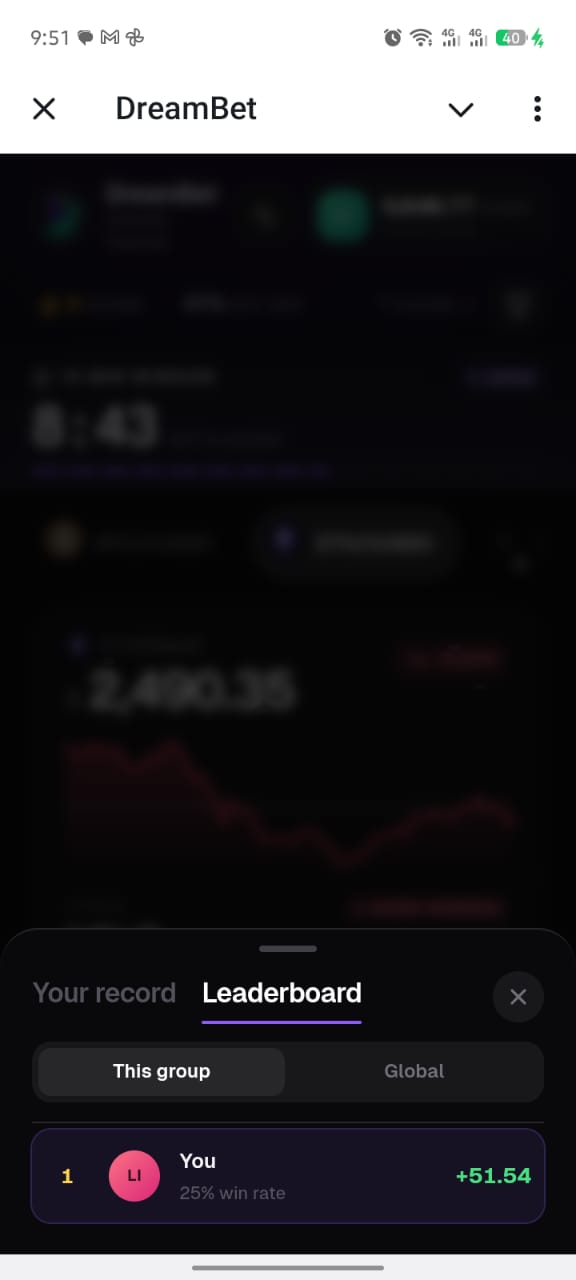
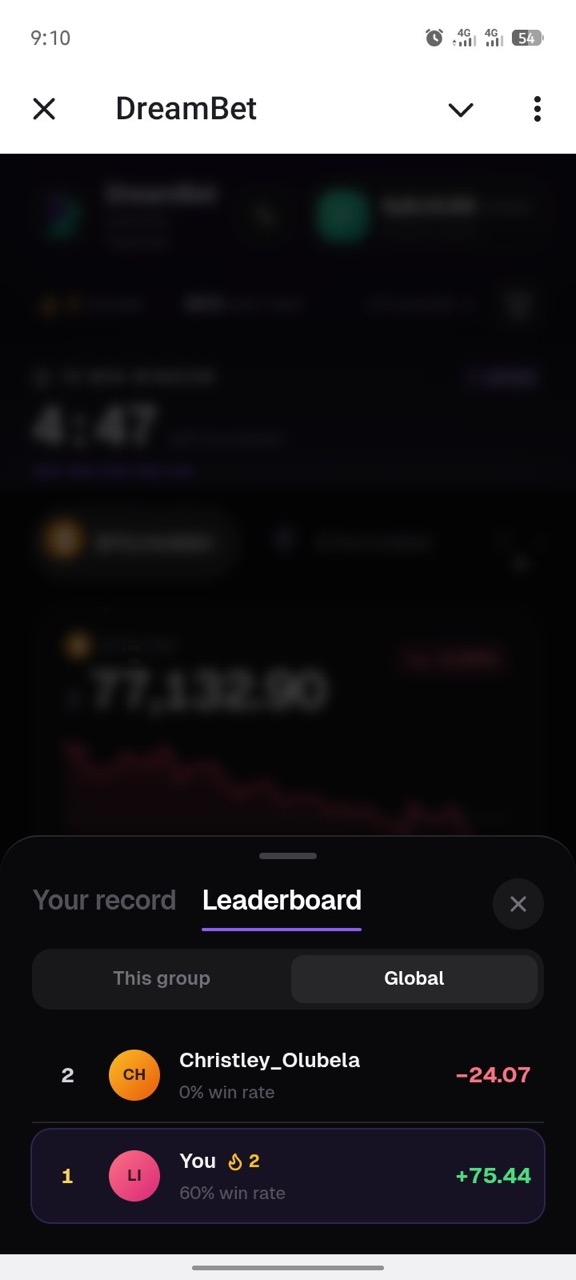
Show a real bet in the README, and stop promising two taps
A GIF of the demo bet from tap to win, the transaction behind it and the
contracts it touches, so "every figure is real" can be checked. Steps a
judge can follow to try it, starting with the faucet. A bet is a side, an
amount and two wallet signatures, which is what the video shows, so the
tagline no longer says two taps.

The order gas was stale: every order from the demo wallet burnt 828,682,
not 595,412. The leaderboard shot now has a second player on it.

Claude-Session: https://claude.ai/code/session_014JByRGn8phgsf8amVyDTL9

diff --git a/src/lib/dreamdex/config.ts b/src/lib/dreamdex/config.ts
@@ -105,8 +105,8 @@ export const PRICE_SERIES_CADENCE_SECONDS = 60;
  * Gas ceiling for every write this app sends — the collateral approval, the
  * order, and the faucet claim.
  *
- * Measured, not guessed: a DreamBet order burns 595,412 gas on these pools and
- * the heaviest order from any caller burnt 3.65M. Two million is 3.4x our own
+ * Measured, not guessed: a DreamBet order burns 828,682 gas on these pools and
+ * the heaviest order from any caller burnt 3.65M. Two million is 2.4x our own
  * and what the faucet has always used.
  */
 export const WRITE_GAS = 2_000_000n;

diff --git a/README.md b/README.md
@@ -3,7 +3,7 @@
 </p>
 
 <p align="center">
-  <b>Bet on where BTC or ETH closes in the next few minutes — from inside a Telegram group, in two taps, without ever meeting a wallet.</b>
+  <b>Bet on where BTC or ETH closes in the next fifteen minutes — from inside a Telegram group, with no install, no seed phrase and no gas to buy.</b>
 </p>
 
 <p align="center">
@@ -12,6 +12,12 @@
 
 <p align="center">
   <b>Open it in Telegram: <a href="https://t.me/thedreambetbot/dreambet?startapp">t.me/thedreambetbot/dreambet?startapp</a></b>
+</p>
+
+<p align="center">
+  <img src="docs/demo.gif" width="300" alt="Placing a BTC UP bet, signing it, sharing it, and winning when the window closes">
+  <br>
+  <sub>A real bet, start to finish: <a href="https://shannon-explorer.somnia.network/tx/0x00f9b5de0b5ba5b0fc34ee55a4d2de371c507c4a51763dc6686bfa7f4c8e110b">this transaction</a> on Shannon. The wallet prompts are sped up and the wait for the window to close is cut.</sub>
 </p>
 
 ---
@@ -28,19 +34,19 @@ The on-chain venues have the mirror-image problem. dreamDEX runs real event cont
 
 DreamBet is a Telegram Mini App, so it opens inside the conversation. No install, no download, no context switch.
 
-**Your Telegram account is the login.** An embedded wallet is created behind it on first open. There is no seed phrase step, because there is no seed phrase to show — and a Telegram webview has no injected provider anyway, so an external wallet was never an option here.
+**Your Telegram account is the login.** An embedded wallet is created behind it the first time you open the app, so there is no seed phrase to write down. An external wallet was never an option anyway: a Telegram webview has no injected provider.
 
-**Gas is never the player's problem.** Every public STT faucet wants a browser wallet to connect and a Mini App has none, so the app sponsors it: before every collateral claim and every bet, one key tops the player's wallet back up if it is running low. The word "gas" appears nowhere in the interface.
+**Gas is never the player's problem.** Public STT faucets all want a browser wallet, and a Mini App doesn't have one. So the app pays instead: before every tUSDC claim and every bet, a sponsor key tops the player's wallet up if it is running low. DreamBet's own screens never mention gas.
 
-**Betting is two taps.** Pick a side, pick an amount. The odds come off the live order book, the window comes off the contract, and the result comes off the chain.
+**A bet is a side and an amount.** Tap UP or DOWN, pick a stake, confirm, then sign the two transactions the wallet asks for: the approval and the order. The odds come from the live order book, the window from the contract, and the result from the chain.
 
-**And the bet leaves as an invitation.** A placed bet becomes a share card aimed back at the group it came from, naming the *opposite* side — because yours is taken. Everyone bets into the same public dreamDEX window, where the liquidity is; the private part is the scoreboard between you and the people in that chat.
+**And the bet leaves as an invitation.** A placed bet becomes a share card sent back to the group it came from, naming the *opposite* side, because yours is taken. Everyone bets into the same public dreamDEX window, where the liquidity is. What belongs to the group is the scoreboard between you and the people in that chat.
 
 ---
 
 ## The product
 
-*Every figure in these screens is real: live 15-minute windows, quotes walked off the resting book, and results the chain actually resolved.*
+*Every figure in these screens is real: live dreamDEX windows, quotes walked off the resting book, and results the chain actually resolved.*
 
 <table align="center">
 <tr>
@@ -50,9 +56,9 @@ DreamBet is a Telegram Mini App, so it opens inside the conversation. No install
 </tr>
 </table>
 
-**The board.** Three assets as pills, each showing whether it has anything behind it right now — a dark one dims and refuses the tap rather than looking fine until you press it. A live price chart drawn from oracle prints, the line your bet settles against drawn across it, and a countdown that names the window it is counting: *15 min window*, *1 hour window*.
+**The board.** Three asset pills. One with no live market behind it is dimmed and can't be tapped, instead of looking fine until you press it. Below them, a price chart built from oracle prints with the line your bet settles against drawn across it, and a countdown that says which window it is counting: *15 min window*, *1 hour window*.
 
-**The ticket.** Tap UP or DOWN and a sheet asks the only remaining question: how much. Quick-stake pills, and a payout quoted by walking the pool's actual resting asks — so the multiplier on screen is the one your order can get, slippage included, not the top-of-book number it would miss. Once it fills, the bet sits under the chart with its strike, the live price and what it pays, marked *winning* or *losing* as the price crosses the line.
+**The ticket.** Tap UP or DOWN and a sheet asks how much. The payout is quoted by walking the pool's resting asks, so the multiplier on screen is what your order will actually get, slippage included — not the top-of-book price it would miss. Once it fills, the bet sits under the chart with its strike, the live price and what it pays, marked *winning* or *losing* as the price crosses the line.
 
 <table align="center">
 <tr>
@@ -61,11 +67,11 @@ DreamBet is a Telegram Mini App, so it opens inside the conversation. No install
 </tr>
 </table>
 
-**Market Pulse.** The read no exchange offers, because no exchange is betting on a fifteen-minute window: **how far the line is, measured in how far this asset actually travels in the time left.**
+**Market Pulse** shows **how far the price is from the line, measured in how far this asset normally moves in the time left.** Exchanges don't show this, because nobody on an exchange is betting on a fifteen-minute window.
 
 > *"BTC is 0.05% above the line, which is about 2 minutes of movement — UP is ahead, but the line is still in reach."*
 
-0.05% means nothing alone. It means a great deal once you know BTC covers it in a typical minute and there are four minutes to run. A track draws the same comparison in space — the shaded band is everything reachable before expiry, and the dot drifts outward on its own as the clock runs down. Underneath: the median one-minute move from real prints, how the last six windows actually settled, resting book depth, and how many of your group are already in.
+0.05% means nothing on its own. It means a great deal once you know BTC typically covers it in two minutes and there are four minutes to run. A track draws the same comparison in space — the shaded band is everything reachable before expiry, and the dot drifts outward on its own as the clock runs down. Underneath: the median one-minute move from real prints, how the last six windows actually settled, resting book depth, and how many of your group are already in.
 
 It describes and never advises. A test asserts the copy never reaches for *bet*, *should*, *likely*, *will* or *predict*.
 
@@ -77,7 +83,7 @@ It describes and never advises. A test asserts the copy never reaches for *bet*,
 </tr>
 </table>
 
-**The result.** A full-screen takeover the moment the window closes. A win overshoots — the bloom swells past its resting size, eighteen sparks burst from behind the number, a second haptic beat lands with it. A loss stays deliberately quiet, because a miss is not a failure, and an app that performs at somebody who has just lost money is one they close.
+**The result.** A full-screen takeover the moment the window closes. A win overshoots — the bloom swells past its resting size, eighteen sparks burst from behind the number, a second haptic beat lands with it. A loss stays quiet on purpose: an app that puts on a show for someone who has just lost money is an app they close.
 
 And it waits for you. The open bet is remembered across launches, so a window that closed while Telegram was shut shows its result the next time you open the app, marked *settled while you were away*. Every settled bet then lands in your record: streak, win rate, best run, and the bets behind them.
 
@@ -85,21 +91,36 @@ And it waits for you. The open bet is remembered across launches, so a window th
 <tr>
 <td align="center" width="33%"><img src="docs/share.jpg" width="240" alt="The share card"><br><sub><b>The share card</b></sub></td>
 <td align="center" width="33%"><img src="docs/challenge.jpg" width="240" alt="A challenge arriving"><br><sub><b>A challenge arriving</b></sub></td>
-<td align="center" width="33%"><img src="docs/leaderboard.jpg" width="240" alt="The group"><br><sub><b>The group</b></sub></td>
+<td align="center" width="33%"><img src="docs/leaderboard.jpg" width="240" alt="The standings"><br><sub><b>The standings</b></sub></td>
 </tr>
 </table>
 
-**The group.** It starts with the share card, sent back into the chat the bet came from. Whoever taps it lands on the same window with a banner naming the side still open — and the ticket stays shut until they choose to open it, because arriving from a chat to find a money dialog already up is a different product.
+**The group.** It starts with the share card, sent back into the chat the bet came from. Whoever taps it lands on the same window with a banner naming the side still open. The ticket stays shut until they choose to open it: tapping a friend's link and finding a payment dialog already up would feel like an ambush.
 
-Then the standings, scoped to the chat you launched from, with a per-window tally of who is already in. Nothing on that table is taken on your word: a bet is written only once the chain confirms that exact transaction was sent by that exact address, and **the result is never stored at all** — outcomes are read back off the market when the table is built, so the one thing worth lying about cannot be sent.
+Then the standings, for the chat you launched from or for everyone who has played, plus a per-window tally of who is already in. Nothing on that table is taken on your word. A bet is written only once the chain confirms that exact transaction was sent by that exact address, and **the result is never stored at all**: outcomes are read back off the market every time the table is built, so nobody can submit a win they didn't have.
 
 ---
 
-## See it work
+## Try it
 
-**[t.me/thedreambetbot/dreambet?startapp](https://t.me/thedreambetbot/dreambet?startapp)** — open it from a group chat and the standings scope to that group.
+1. **Open [t.me/thedreambetbot/dreambet?startapp](https://t.me/thedreambetbot/dreambet?startapp) in Telegram.** Post it in a group chat and open it from there if you want the "This group" standings. Sign in with Telegram, and your wallet is created behind it.
+2. **Get test money.** Tap your balance in the top-right corner, then **Get 10,000 tUSDC**. The app covers the gas.
+3. **Bet.** Tap UP or DOWN, pick a stake, tap **Confirm Prediction**, and approve the two wallet prompts.
+4. **Wait for the window to close.** You can leave Telegram in the meantime; the result is waiting when you come back. Then tap **Challenge Friends in Group** to send the other side to the chat.
 
 The trailing `?startapp` is what makes the link launch the Mini App rather than open a chat with the bot. Every challenge link the app generates carries it too, with the challenge encoded in it.
+
+### Check it on-chain
+
+Every bet in the app is an ordinary dreamDEX order that anyone can look up on the [Shannon explorer](https://shannon-explorer.somnia.network). The one in the GIF above:
+
+| | |
+|---|---|
+| The bet | [`0x00f9b5de…e110b`](https://shannon-explorer.somnia.network/tx/0x00f9b5de0b5ba5b0fc34ee55a4d2de371c507c4a51763dc6686bfa7f4c8e110b) — a 10 tUSDC stake on BTC UP. 9.79 filled, and the 0.21 the book couldn't fill came back in the same transaction |
+| That window's pool | [`0x898002B0B95FBEDF76c15A650ed0dE23cD6fC113`](https://shannon-explorer.somnia.network/address/0x898002B0B95FBEDF76c15A650ed0dE23cD6fC113) — every window is its own pool, which is why each one needs its own approval |
+| Collateral (TestUSDC) | [`0x70a86D8842FB63C4Ad2b7cdddF530eBf1BB25d8E`](https://shannon-explorer.somnia.network/address/0x70a86D8842FB63C4Ad2b7cdddF530eBf1BB25d8E) — the faucet the wallet sheet calls |
+| dreamDEX MarketsCore | [`0x2802504314685D89bF6C992CA5a8e7cC78bc0294`](https://shannon-explorer.somnia.network/address/0x2802504314685D89bF6C992CA5a8e7cC78bc0294) |
+| dreamDEX OracleHub | [`0xe40db387cC98601Dd11bd634fF2f3AD5686dE32b`](https://shannon-explorer.somnia.network/address/0xe40db387cC98601Dd11bd634fF2f3AD5686dE32b) |
 
 ---
 
@@ -137,7 +158,7 @@ PASS  the copy never advises a side
 
 ### How a bet works
 
-1. `useDreamdexWindow` queries every cadence dreamDEX trades (15-minute, 5-minute, hourly and 1-minute) at once, picks the nearest window genuinely open, and reads the line it settles against — the strike for a fixed market, the opening print for a reference one.
+1. `useDreamdexWindow` queries every cadence dreamDEX trades (15-minute, 5-minute, hourly and 1-minute) at once, picks the first one in that order with a window genuinely open, and reads the line it settles against — the strike for a fixed market, the opening print for a reference one.
 2. The ticket sizes the typed stake against the pool's resting asks, so the multiplier shown is the one this order can actually get.
 3. Confirm places a market IOC at the protective limit. UP buys YES, DOWN buys NO; outcome 0 is YES. The approval and the order are two transactions, because ERC-20 requires the pool to be authorised and every window is a new pool.
 4. The position is recorded from the transaction's own fills, never from the quote — the book can move between them, and only one of the two is a receipt.
@@ -145,9 +166,9 @@ PASS  the copy never advises a side
 
 ### Gas, measured rather than guessed
 
-Somnia settles at a flat 6 gwei, but a wallet is checked against `gas × maxFeePerGas`, and the wallet builds every transaction at a **60 gwei** cap — ten times the price actually paid. With the SDK's default 10,000,000 gas ceiling, placing a bet demanded **0.6 STT on hand** to burn 0.0036. Nobody could bet.
+Somnia settles at a flat 6 gwei, but a wallet is checked against `gas × maxFeePerGas`, and the wallet builds every transaction at a **60 gwei** cap — ten times the price actually paid. With the SDK's default 10,000,000 gas ceiling, placing a bet demanded **0.6 STT on hand** to burn 0.005. Nobody could bet.
 
-So the ceiling is measured: a DreamBet order burns **595,412 gas**, and the heaviest order any caller has sent to these pools burnt 3.65M. `WRITE_GAS` is 2,000,000, and every other number derives from it:
+So the ceiling is measured: a DreamBet order burns **828,682 gas** ([the demo bet](https://shannon-explorer.somnia.network/tx/0x00f9b5de0b5ba5b0fc34ee55a4d2de371c507c4a51763dc6686bfa7f4c8e110b) is one), and the heaviest order any caller has sent to these pools burnt 3.65M. `WRITE_GAS` is 2,000,000, and every other number derives from it:
 
 ```
 WRITE_RESERVE = WRITE_GAS × WRITE_MAX_FEE   →   0.12 STT
@@ -214,23 +235,29 @@ src/
 
 ## Why this grows dreamDEX
 
-**It reaches people who are not looking for a DEX.** A Mini App needs no install and no download — the distribution is a link in a chat somebody is already reading. The people this puts in front of Event Contracts are not traders shopping for a venue; they are the ones already arguing about the price.
+**It reaches people who are not looking for a DEX.** The distribution is a link in a chat somebody is already reading. The people it puts in front of Event Contracts are not traders shopping for a venue; they are the ones already arguing about the price.
 
-**Every bet asks for a counterparty.** The share card names the *opposite* side of the *same* window, so the viral loop does not merely add users — it adds order flow to both sides of one book. Six people arguing about BTC in a group chat become six market orders inside the same fifteen minutes, against each other, on dreamDEX's own liquidity.
+**Every bet asks for a counterparty.** The share card names the *opposite* side of the *same* window, so the loop adds order flow to both sides of one book, not just users. Six people arguing about BTC in a group chat become six orders in the same fifteen minutes, on dreamDEX's own liquidity.
 
-**It teaches Event Contracts without a tutorial.** Nobody is asked to learn what a strike, a binary outcome token or an IOC is. They see a line on a chart, two buttons and a payout, and the vocabulary arrives later if it arrives at all. Market Pulse does the same job for volatility: it says how far the line is in minutes of ordinary movement, which is a concept that needs no glossary.
+**It teaches Event Contracts without a tutorial.** Nobody has to learn what a strike, an outcome token or an IOC is. They see a line on a chart, two buttons and a payout. Market Pulse does the same for volatility, stating distance to the line in minutes of ordinary movement.
 
-**It is a template rather than a fork.** Any asset dreamDEX lists appears in the pill row with no code change, and the same shell works for any binary window the venue rolls.
+**It is a template, not a fork.** Any asset dreamDEX lists appears in the pill row with no code change, and the same shell works for any binary window the venue rolls.
 
-**And it can pay for itself with the venue's own primitive.** The pools carry a builder fee: a trader opts a frontend in through `approveBuilder` up to a ceiling the venue froze, and each order then attributes `builderFeeBpsTimes1k` to it. A paid version of DreamBet needs no custom contracts and no rake invented on top — the mechanism is in the SDK, capped by the venue, and approved by the player rather than taken from them.
+**And it can pay for itself with the venue's own builder fee.** A player opts a frontend in with `approveBuilder`, up to a ceiling the venue sets, and each order then pays that frontend a share. No custom contracts, no invented rake, and nothing taken without the player's approval.
 
-Nothing is charged today, and no rate is named here on purpose: `maxBuilderFeeBps` reads as null on every Shannon market, so the ceiling a frontend must sit under has not been published yet. What is already known is the other half of the ledger, which is gas. The sponsor pays for all of it: a new player's wallet is filled to 0.24 STT before their first transaction, most of which sits there as a float, and every bet after that burns about 0.0065 STT, refilled in drips of roughly 0.09 STT every fourteen or so bets. That is the whole unit economic: a builder fee on each bet against the gas on each bet, plus a one-off float per player that only pays back if they keep playing.
+Nothing is charged today. `maxBuilderFeeBps` reads as null on every Shannon market, so the ceiling hasn't been published and no rate is named here. The cost side is already known, because the sponsor pays all of it:
 
-The two sides scale differently, which is what makes the gap closable: the fee is a share of the stake, and the gas is a flat cost per bet. So there is a stake above which every bet pays for its own gas, and three levers that need nothing new built:
+| Gas the sponsor pays | STT |
+|---|---|
+| Filling a new player's wallet before their first transaction (mostly a float that stays there) | 0.24 |
+| Each bet after that (approval + order) | ~0.0065 |
+| Each refill, about every fourteen bets | ~0.09 |
 
-- **A minimum stake** set at that break-even, so no bet runs at a loss.
-- **A per-address sponsorship cap,** so each player's float is a bounded cost of acquiring them rather than an open-ended one.
-- **Players paying their own gas past the cap.** On mainnet the wallet sheet already shows an address and QR code to send SOMI to, so sponsorship becomes onboarding rather than a subsidy that never ends.
+The fee is a share of the stake and the gas is a flat cost per bet, so above some stake every bet pays for its own gas. Three levers close the gap, none of which needs anything new built:
+
+- **A minimum stake** at that break-even point.
+- **A per-address sponsorship cap,** so each player's float is a fixed cost of acquiring them.
+- **Players paying their own gas past the cap.** On mainnet the wallet sheet already shows an address and QR code to send SOMI to, so sponsorship becomes onboarding rather than a permanent subsidy.
 
 ---
 
